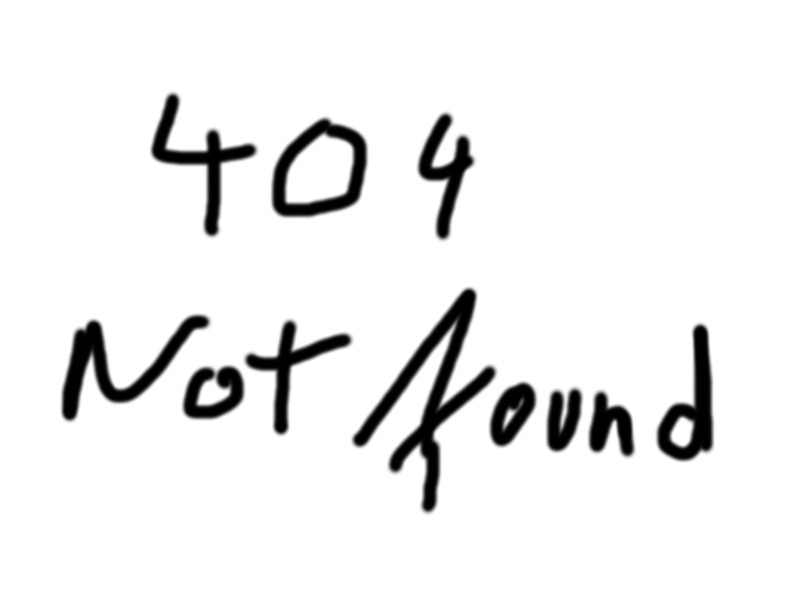
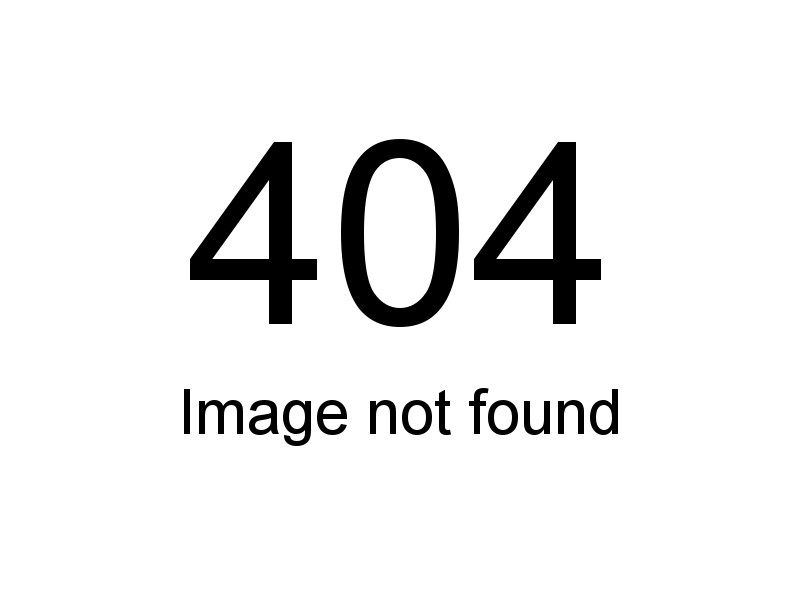
Better 404 image

Changed region(s): [[0.0625, 0.15, 0.9062, 0.87]]

diff --git a/web/src/Controller/ApiController.php b/web/src/Controller/ApiController.php
@@ -440,6 +440,7 @@ class ApiController extends AbstractController
                 UrlGeneratorInterface::ABSOLUTE_URL
             );
 
+            $isMissing = false;
             $width = $swapWidthHeight
                 ? $fileMeta['height']
                 : $fileMeta['width'];
@@ -476,6 +477,7 @@ class ApiController extends AbstractController
                 ) . 'img/404.jpg';
 
                 $aspectRatio = $width / $height;
+                $isMissing = true;
             }
 
             $response[$imageType] = [
@@ -483,6 +485,7 @@ class ApiController extends AbstractController
                 'width' => $width,
                 'height' => $height,
                 'aspect_ratio' => $aspectRatio,
+                'is_missing' => $isMissing,
             ];
         }
 

diff --git a/web/src/Command/FilesScanCommand.php b/web/src/Command/FilesScanCommand.php
@@ -49,6 +49,7 @@ class FilesScanCommand extends Command
                 'Should we update the existing entries in the database (when meta changes for example)?',
                 false
             )
+            // TODO: implement cleanup for missing images
             ->addOption(
                 'action',
                 'a',
